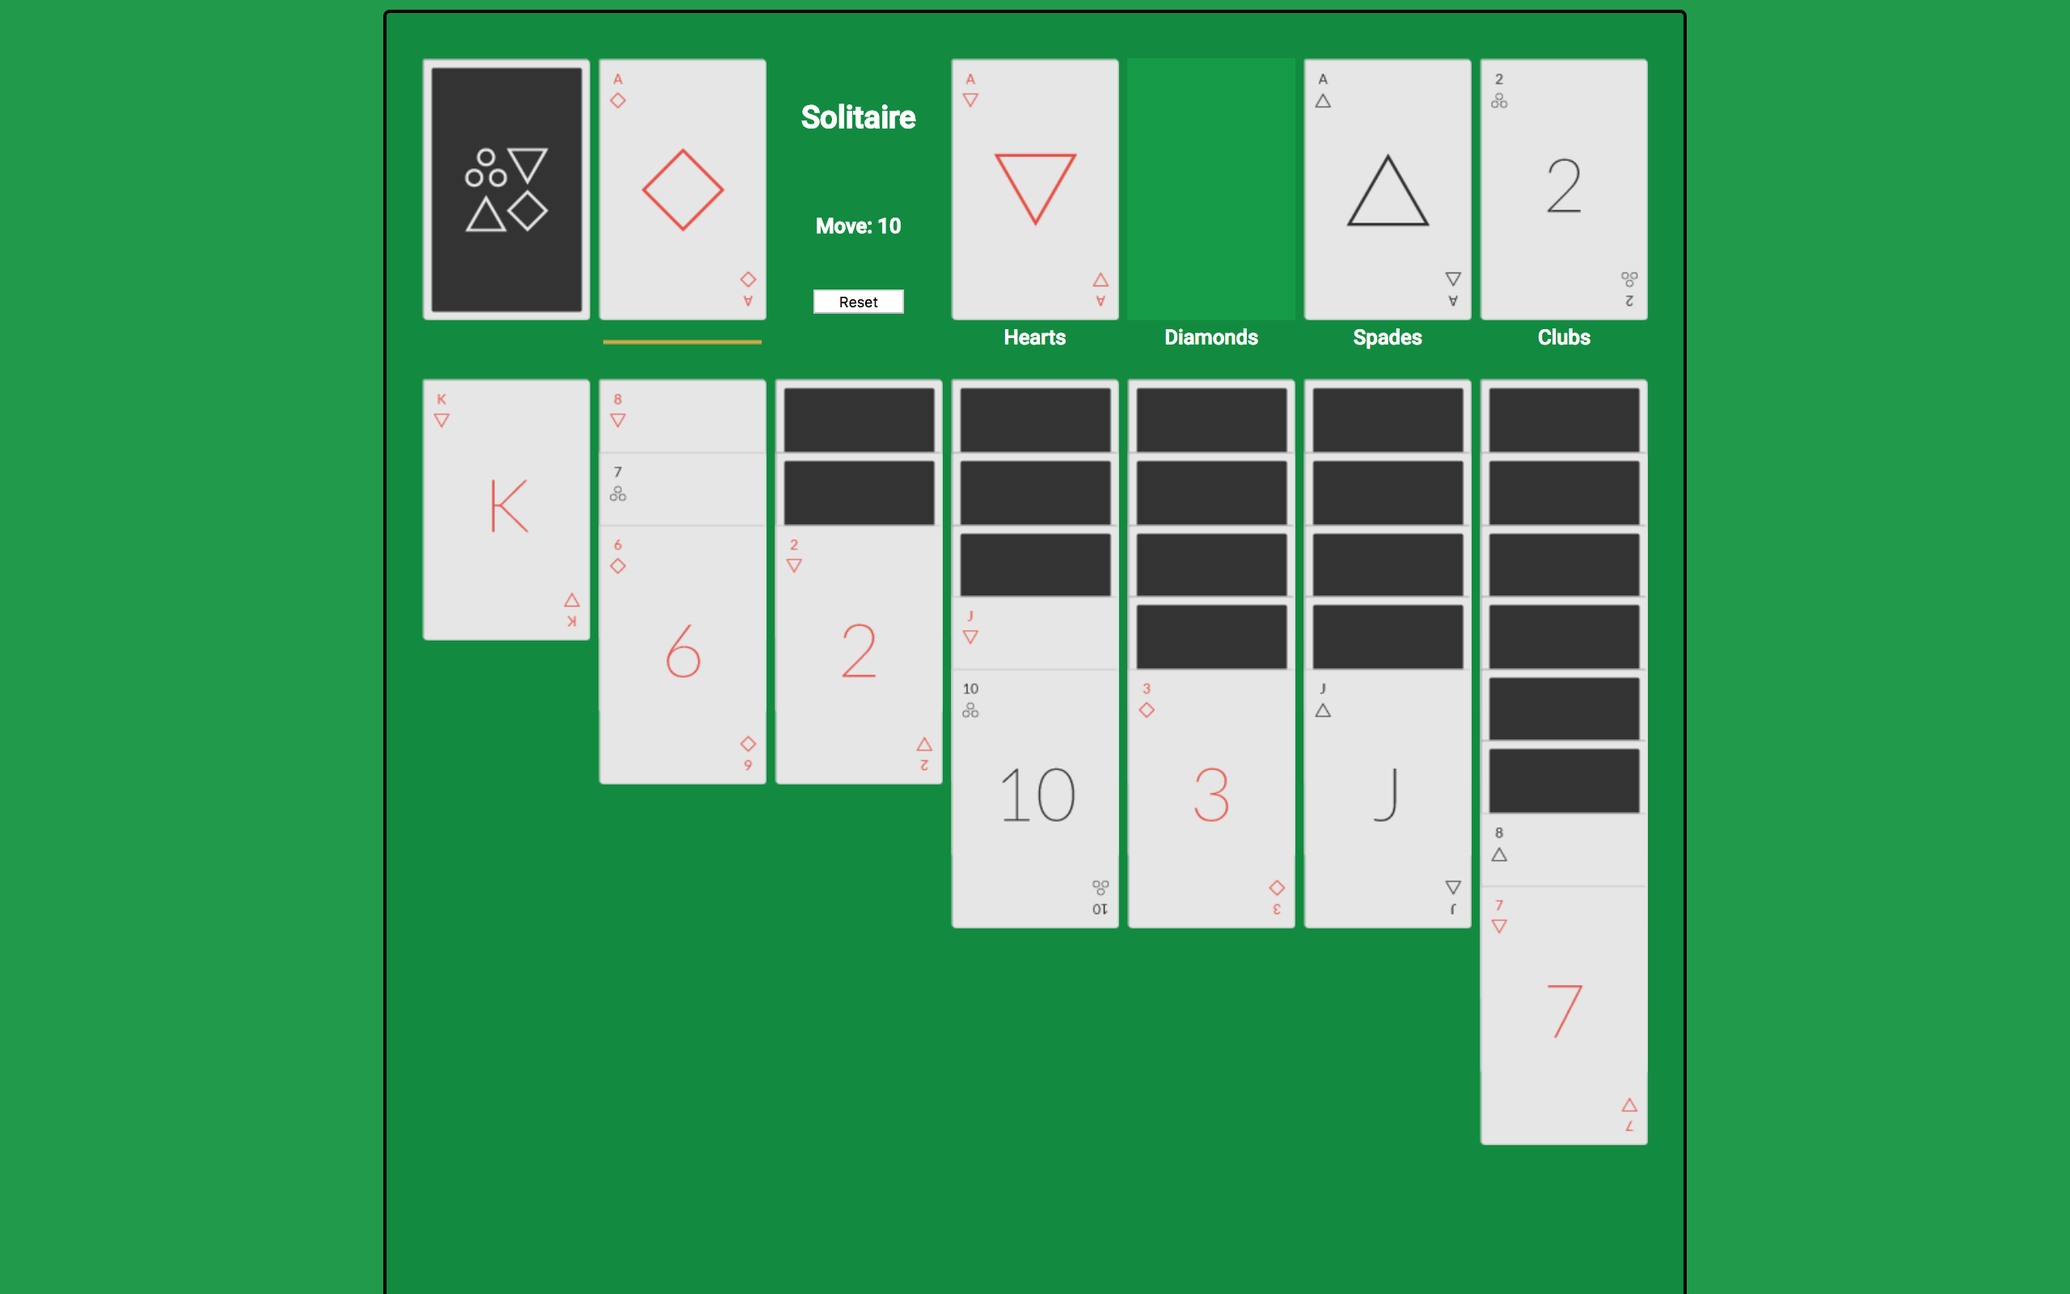
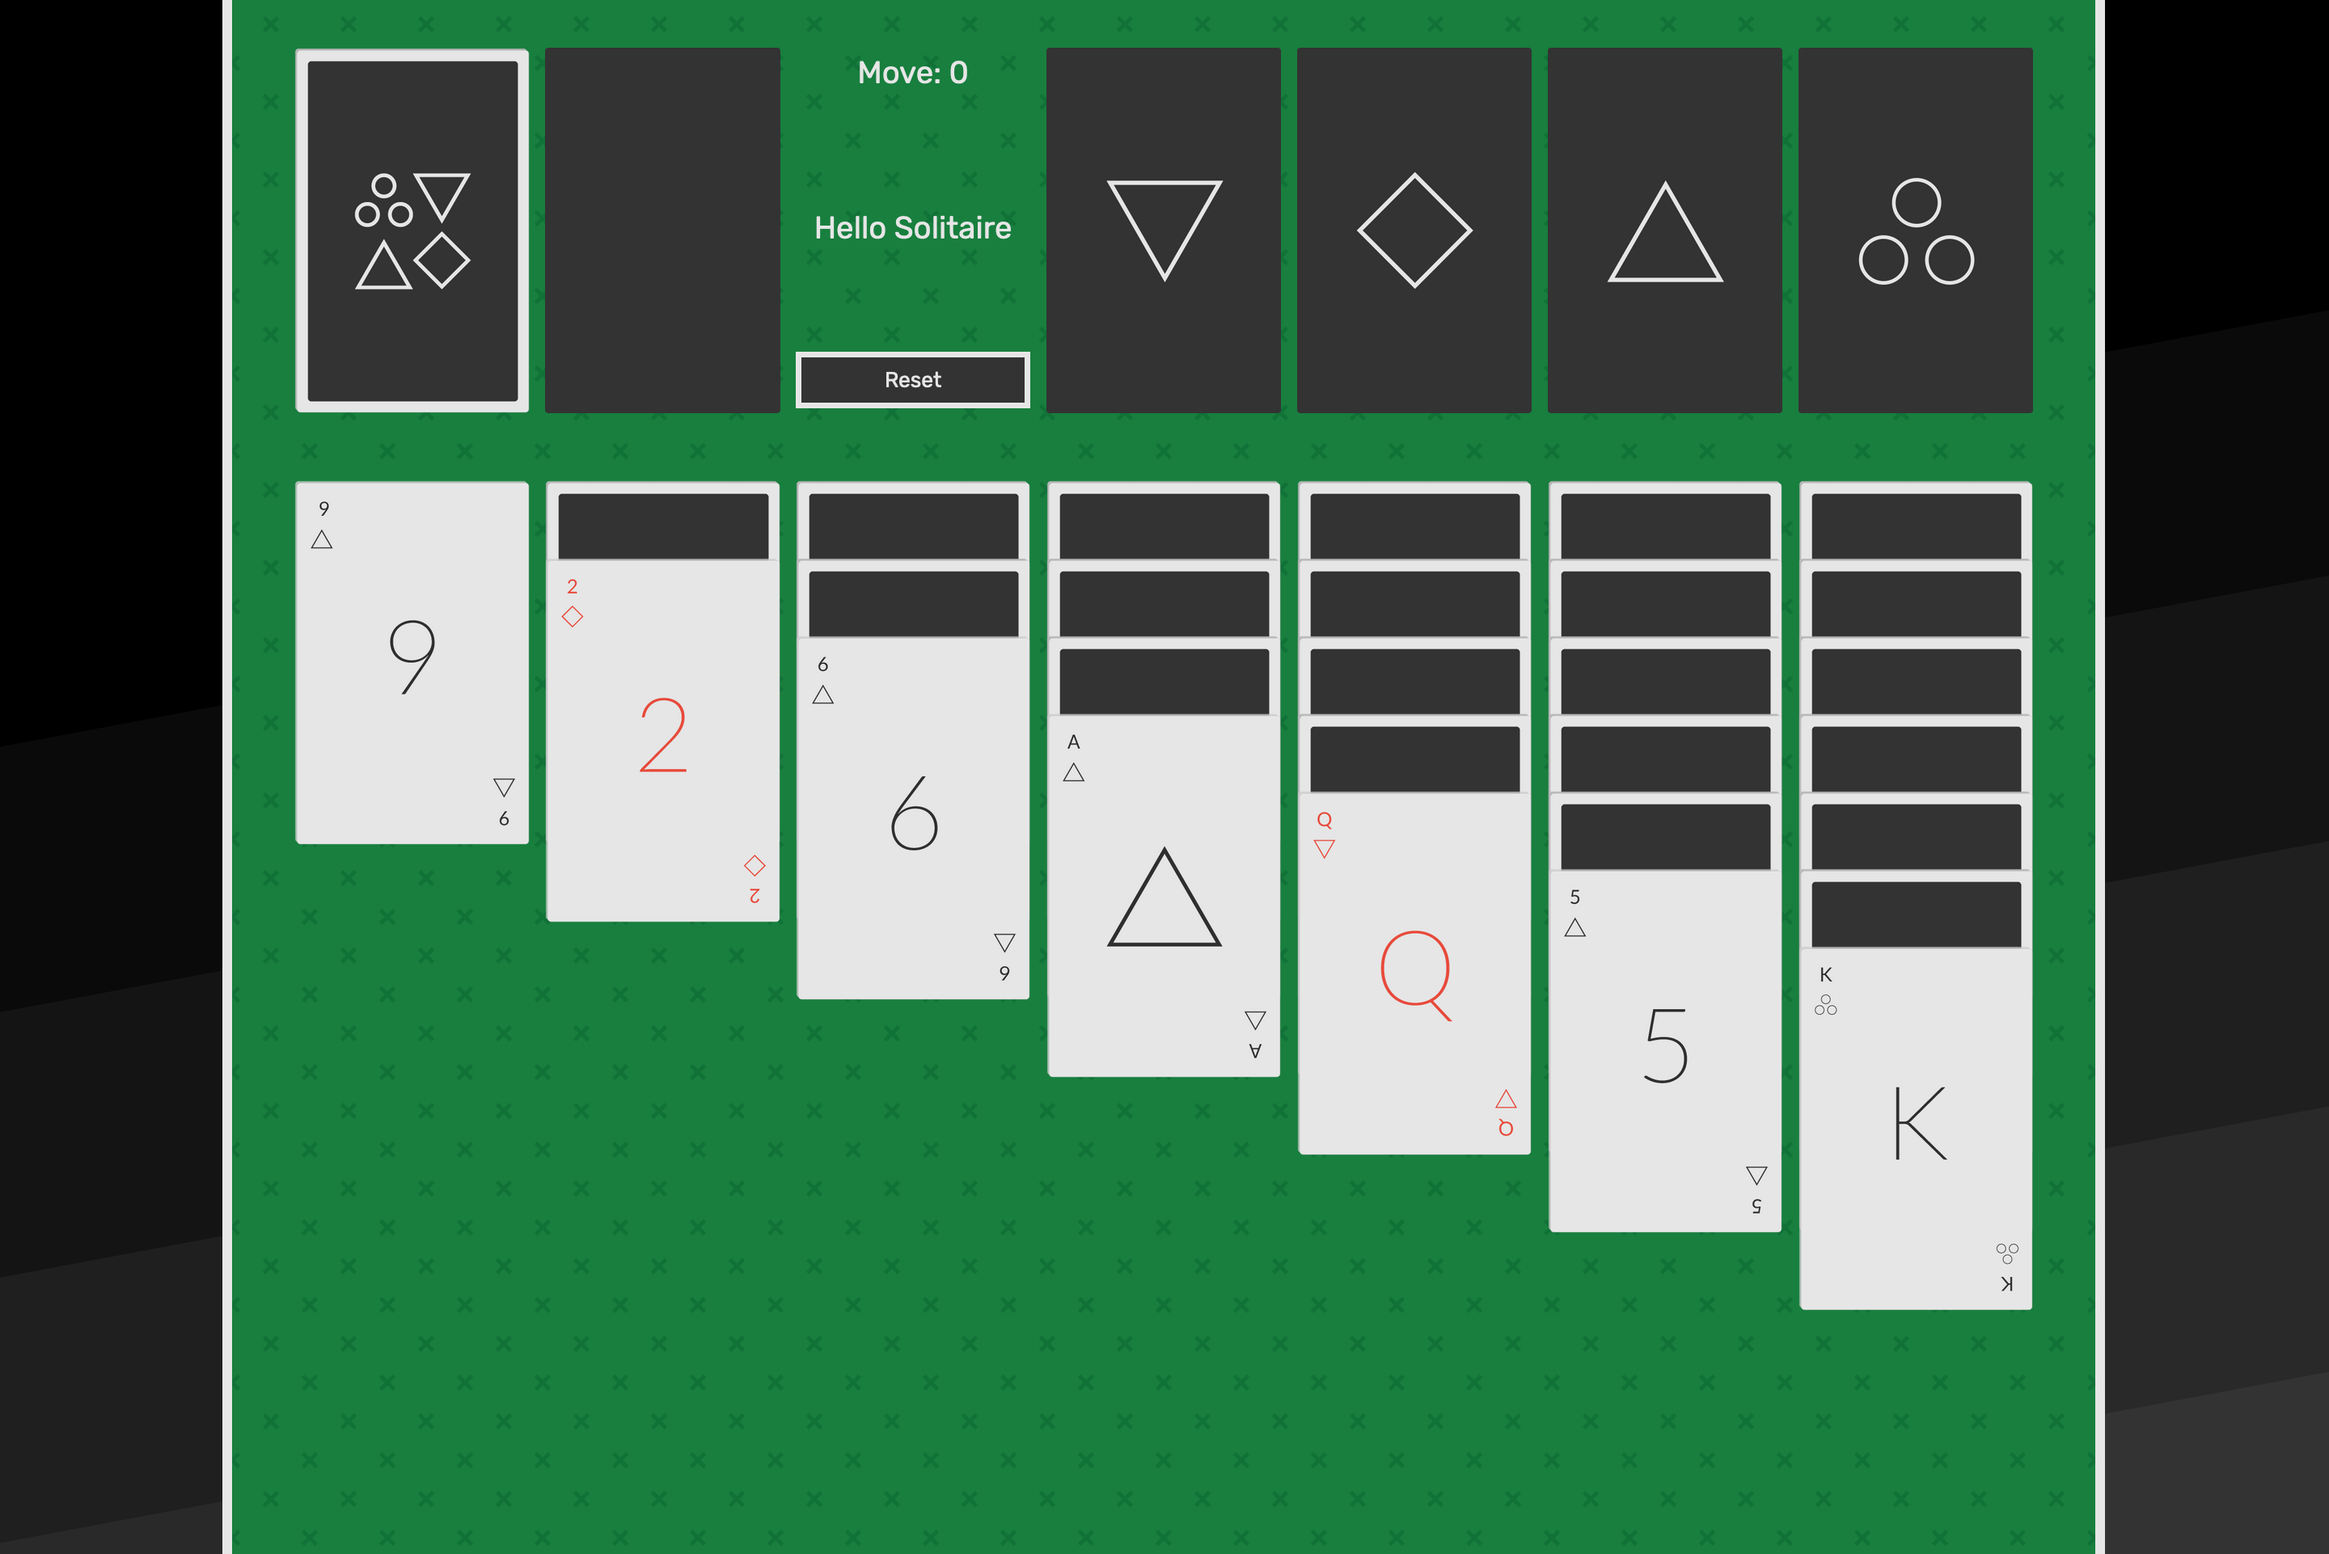
Updated readme

diff --git a/README.md b/README.md
@@ -6,6 +6,10 @@ Game Link: <a href="https://ashco.github.io/solitaire/">https://ashco.github.io/
 
 This project was the result of General Assembly's Web Development Immersive Unit 1 project to build a game using what we had learned in the course so far. It served as a great way to understand how Javascript can be used to create a product through small and specific funcitons. I ran into many challenges and subsequent eureka moments during this game's week long development.
 
+## UPDATE (Jan 19, 2020)
+
+Came back and gave this app a fresh coat of paint, so it is playing and looking much better now. It is still written in plain ol' JS and I'm dealing with the codebase of a 1 week old developer, so I can't make miracles out of it :P.
+
 ### Biggest Issues
 
 My biggest challange slapped me on the face on Day 5 when I realized the ability to move multiple cards at once (my final requirement before hitting MVP) would require very different logic to accomplish. After climbing out of GA's communal pit of dispair I ended up re-whiteboarding everything and making my code much cleaner and workable. A valuable lesson was learned and I will never ever ever put off fully thinking through how to solve a difficult problem just because it seems hard.
@@ -28,15 +32,15 @@ Click once to select, click again to move. Simple but addicting.
 
 There are a few things that I am still not satisifed about with this project. If I had more time I would want to fix/implement the the following:
 
-* If given the time I think I could rewrite a lot of the code logic and make the game cleaner / less prone to errors. Two main approaches I would try:
+- If given the time I think I could rewrite a lot of the code logic and make the game cleaner / less prone to errors. Two main approaches I would try:
   1.  Remove the blank card images and replace them with styled divs. The add/rmv image logic got kind of messy and I think some of it was because adding one card to an empty row kept the image count the same, requiring an if statement that caused more bugs than I care to admit.
   2.  Track the number of flipped cards through another variable. I currently determine which cards are face up with a ".flipped" class on each image. This can be confusing and would likely simplify a lot of things if it was tracked in a variable.
-* Add a legit reset button. I wanted to use a function to loop through and replace the images, but ran short on time and could not figure it out.
-* CSS Grid height is longer than I'd like but I couldn't figure out how to reduce it.
-* Selecting the top right suits cards causes the board to skip down a little to make room for the selector image.
-* Figure out how to DRY up the CSS.
-* Better CSS styling. I would like to take every chance I get to improve my CSS skills because they make a huge difference in how any product is perceived.
-* Add an option to play a harder 3 card draw mode.
-* Sound effects. Gotta appeal to the kids.
+- Add a legit reset button. I wanted to use a function to loop through and replace the images, but ran short on time and could not figure it out.
+- CSS Grid height is longer than I'd like but I couldn't figure out how to reduce it.
+- Selecting the top right suits cards causes the board to skip down a little to make room for the selector image.
+- Figure out how to DRY up the CSS.
+- Better CSS styling. I would like to take every chance I get to improve my CSS skills because they make a huge difference in how any product is perceived.
+- Add an option to play a harder 3 card draw mode.
+- Sound effects. Gotta appeal to the kids.
 
 Enjoy!
